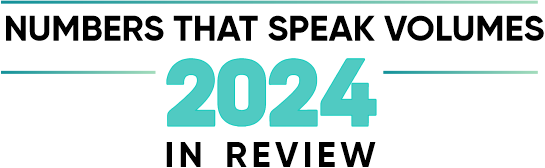
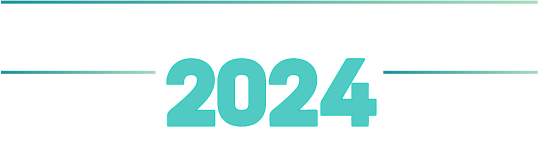
text add and caption move

Changed region(s): [[0.0, 0.0893, 0.9982, 0.2679], [0.4055, 0.8333, 0.6862, 1.0], [0.2807, 0.8333, 0.3743, 1.0]]

diff --git a/index.html b/index.html
@@ -28,7 +28,7 @@
             <div class="container">
                 <div class="row">
                     <div class="col-md-12 text-center">
-                        <img src="assets/images/logo.png" class="py-4 logo" alt="logo">
+                        <img src="assets/images/logo.png" class="py-4 logo" style="background-color: #fefaf5" alt="logo">
                         <div class="newsletter">
                             <span class="lines"></span>
                             <img src="assets/images/newsletter.png" class="main-heading newsletter-img" alt="">
@@ -49,45 +49,31 @@
         </sectoin>
         <div class="yearly-stats yearly-stats-highlighted3 mt-3 mt-md-0 mb-3">
             <div class="container mt-3 mb-3 mb-md-4 mb-md-4 text-center">
-                <!-- <div class="d-flex flex-column">
-                    <div class="into1 d-inline-block mb-2">Numbers That Speak Volumes</div>
-                    <div class="into into2 bg-red d-inline-block mb-4 mb-md-5">2024 in Review</div>
-                </div> -->
-                <img src="assets/images/2024.png" alt="" class="year-img mb-4 w-100">
+                <div class="title-block-main">
+                    <div class="title-block">Numbers that speak volumes</div>
+                    <img src="assets/images/2024.png" alt="" class="year-img mb-4 w-100">
+                    <div class="title-block2">in review</div>
+                </div>
                 <div class="row justify-content-center g-3 g-md-4 text-center">
                     <div class="col-6 col-md-3 stat-box">
-                        <!-- <div class="y-stat-number">781</div>
-                        <div class="y-stat-text"> artist bookings</div> -->
                         <img src="assets/images/yearly-numbers/1.png" alt="">
                     </div>
                     <div class="col-6 col-md-3 stat-box">
-                        <!-- <div class="y-stat-number">497 </div>
-                        <div class="y-stat-text"> events/engagements</div> -->
                         <img src="assets/images/yearly-numbers/2.png" alt="">
                     </div>
                     <div class="col-6 col-md-3 stat-box">
-                        <!-- <div class="y-stat-number">23 </div>
-                        <div class="y-stat-text"> genres covered </div> -->
                         <img src="assets/images/yearly-numbers/3.png" alt="">
                     </div>
                     <div class="col-6 col-md-3 stat-box">
-                        <!-- <div class="y-stat-number">266 </div>
-                        <div class="y-stat-text"> brands</div> -->
                         <img src="assets/images/yearly-numbers/4.png" alt="">
                     </div>
                     <div class="col-6 col-md-3 stat-box">
-                        <!-- <div class="y-stat-number">173 </div>
-                        <div class="y-stat-text"> event agencies</div> -->
                         <img src="assets/images/yearly-numbers/5.png" alt="">
                     </div>
                     <div class="col-6 col-md-3 stat-box">
-                        <!-- <div class="y-stat-number">64 </div>
-                        <div class="y-stat-text"> Cities </div> -->
                         <img src="assets/images/yearly-numbers/6.png" alt="">
                     </div>
                     <div class="col-6 col-md-3 stat-box">
-                        <!-- <div class="y-stat-number">12 </div>
-                        <div class="y-stat-text"> Countries </div> -->
                         <img src="assets/images/yearly-numbers/7.png" alt="">
                     </div>
                 </div>
@@ -104,38 +90,24 @@
                 </div>
                 <div class="row justify-content-center g-3 g-md-4 text-center">
                     <div class="col-6 col-md-3 stat-box">
-                        <!-- <div class="y-stat-number">781</div>
-                        <div class="y-stat-text"> artist bookings</div> -->
                         <img src="assets/images/yearly-numbers/11.png" alt="">
                     </div>
                     <div class="col-6 col-md-3 stat-box">
-                        <!-- <div class="y-stat-number">497 </div>
-                        <div class="y-stat-text"> events/engagements</div> -->
                         <img src="assets/images/yearly-numbers/12.png" alt="">
                     </div>
                     <div class="col-6 col-md-3 stat-box">
-                        <!-- <div class="y-stat-number">23 </div>
-                        <div class="y-stat-text"> genres covered </div> -->
                         <img src="assets/images/yearly-numbers/13.png" alt="">
                     </div>
                     <div class="col-6 col-md-3 stat-box">
-                        <!-- <div class="y-stat-number">266 </div>
-                        <div class="y-stat-text"> brands</div> -->
                         <img src="assets/images/yearly-numbers/14.png" alt="">
                     </div>
                     <div class="col-6 col-md-3 stat-box">
-                        <!-- <div class="y-stat-number">173 </div>
-                        <div class="y-stat-text"> event agencies</div> -->
                         <img src="assets/images/yearly-numbers/15.png" alt="">
                     </div>
                     <div class="col-6 col-md-3 stat-box">
-                        <!-- <div class="y-stat-number">64 </div>
-                        <div class="y-stat-text"> Cities </div> -->
                         <img src="assets/images/yearly-numbers/16.png" alt="">
                     </div>
                     <div class="col-6 col-md-3 stat-box">
-                        <!-- <div class="y-stat-number">12 </div>
-                        <div class="y-stat-text"> Countries </div> -->
                         <img src="assets/images/yearly-numbers/17.png" alt="">
                     </div>
                 </div>
@@ -563,8 +535,12 @@
                             </p>
                         </div>
                     </div>
-                    <div class="col-md-8 mob-seperate-col mb-md-5">
+                    <div class="col-md-8 mob-seperate-col mob-seperate-col-top mb-md-5">
                         <div class="row">
+                            <div class="gallery-item">
+                                <p class="mb-3 mb-md-0 mt-0 mt-md-3">Leslee Lewis & Kavya Jones performing at an event for HSBC in Delhi and Capitaland in Pune
+                                </p>
+                            </div>
                             <div class="col-md-6 mb-2">
                                 <div class="gallery-item">
                                     <div class="gallery-img-wrapper image-with-name">
@@ -584,10 +560,6 @@
                                         </div>
                                     </div>
                                 </div>
-                            </div>
-                            <div class="gallery-item">
-                                <p class="mb-3 mb-md-0">Leslee Lewis & Kavya Jones performing at an event for HSBC in Delhi and Capitaland in Pune
-                                </p>
                             </div>
                         </div>
                     </div>
@@ -657,8 +629,12 @@
                             </p>
                         </div>
                     </div>
-                    <div class="col-md-12 mob-seperate-col mb-md-5">
+                    <div class="col-md-12 mob-seperate-col mob-seperate-col-top mb-md-5">
                         <div class="row">
+                        <div class="gallery-item">
+                                <p class="mb-3 mb-md-0 mt-0 mt-md-3">Akshay Laxman performing at an event for Zurich Kotak in Mumbai and for Parexel in Hyderabad and Mohali
+                                </p>
+                            </div>
                             <div class="col-md-4 mb-2">
                                 <div class="gallery-item">
                                     <div class="gallery-img-wrapper image-with-name">
@@ -688,10 +664,6 @@
                                         </div>
                                     </div>
                                 </div>
-                            </div>
-                            <div class="gallery-item">
-                                <p class="mb-3 mb-md-0">Akshay Laxman performing at an event for Zurich Kotak in Mumbai and for Parexel in Hyderabad and Mohali
-                                </p>
                             </div>
                         </div>
                     </div>

diff --git a/assets/css/style.css b/assets/css/style.css
@@ -304,6 +304,11 @@ header h3 {
     padding-top: 1rem;
   }
 }
+@media (max-width: 767px) {
+  .gallery-section .gallery-wrapper .mob-seperate-col-top {
+    border-top: 2px solid #f39454;
+  }
+}
 @media (min-width: 768px) {
   .gallery-section .gallery-wrapper .gallery-item {
     background: rgba(225, 123, 92, 0.0901960784);
@@ -972,4 +977,41 @@ footer .ftrmnu li span {
 
 .year-img {
   max-width: 464px;
+}
+
+.title-block-main {
+  position: relative;
+}
+.title-block-main .title-block, .title-block-main .title-block2 {
+  font-size: 1.94rem;
+  font-family: "gilroy", "serif";
+  text-transform: uppercase;
+  line-height: 1.2;
+  color: #000000;
+  position: absolute;
+  left: 50%;
+  top: 5px;
+  transform: translateX(-50%);
+  width: 100%;
+}
+@media (max-width: 768px) {
+  .title-block-main .title-block, .title-block-main .title-block2 {
+    font-size: 4vw;
+  }
+}
+@media (max-width: 590px) {
+  .title-block-main .title-block, .title-block-main .title-block2 {
+    font-size: 5.2vw;
+    text-align: center;
+  }
+}
+@media (max-width: 348px) {
+  .title-block-main .title-block, .title-block-main .title-block2 {
+    font-size: 5.1vw;
+  }
+}
+.title-block-main .title-block2 {
+  top: unset;
+  bottom: 20px;
+  letter-spacing: 2px;
 }/*# sourceMappingURL=style.css.map */

diff --git a/assets/css/style.scss b/assets/css/style.scss
@@ -255,6 +255,11 @@ header{
                 padding-top: 1rem;
             }
         }
+        .mob-seperate-col-top{
+            @media (max-width: 767px) {
+                border-top: 2px solid $second-color;
+            }
+        }
         .gallery-item{
             @media (min-width: 768px) {
                 background: #e17b5c17;
@@ -865,4 +870,36 @@ footer{
 
 .year-img{
     max-width: 464px;
+}
+
+.title-block-main{
+    position: relative;
+    .title-block{
+        font-size: 1.94rem;
+        font-family: $gilroy-font;
+        text-transform: uppercase;
+        line-height: 1.2;
+        color: #000000;
+        position: absolute;
+        left: 50%;
+        top: 5px;
+        transform: translateX(-50%);
+        width: 100%;
+        @media (max-width: 768px) {
+            font-size: 4vw;
+        }
+        @media (max-width: 590px) {
+            font-size: 5.2vw;
+            text-align: center;
+        }
+        @media (max-width: 348px) {
+            font-size: 5.1vw;
+        }
+    }
+    .title-block2{
+        @extend .title-block;
+        top: unset;
+        bottom: 20px;
+        letter-spacing: 2px;
+    }
 }
